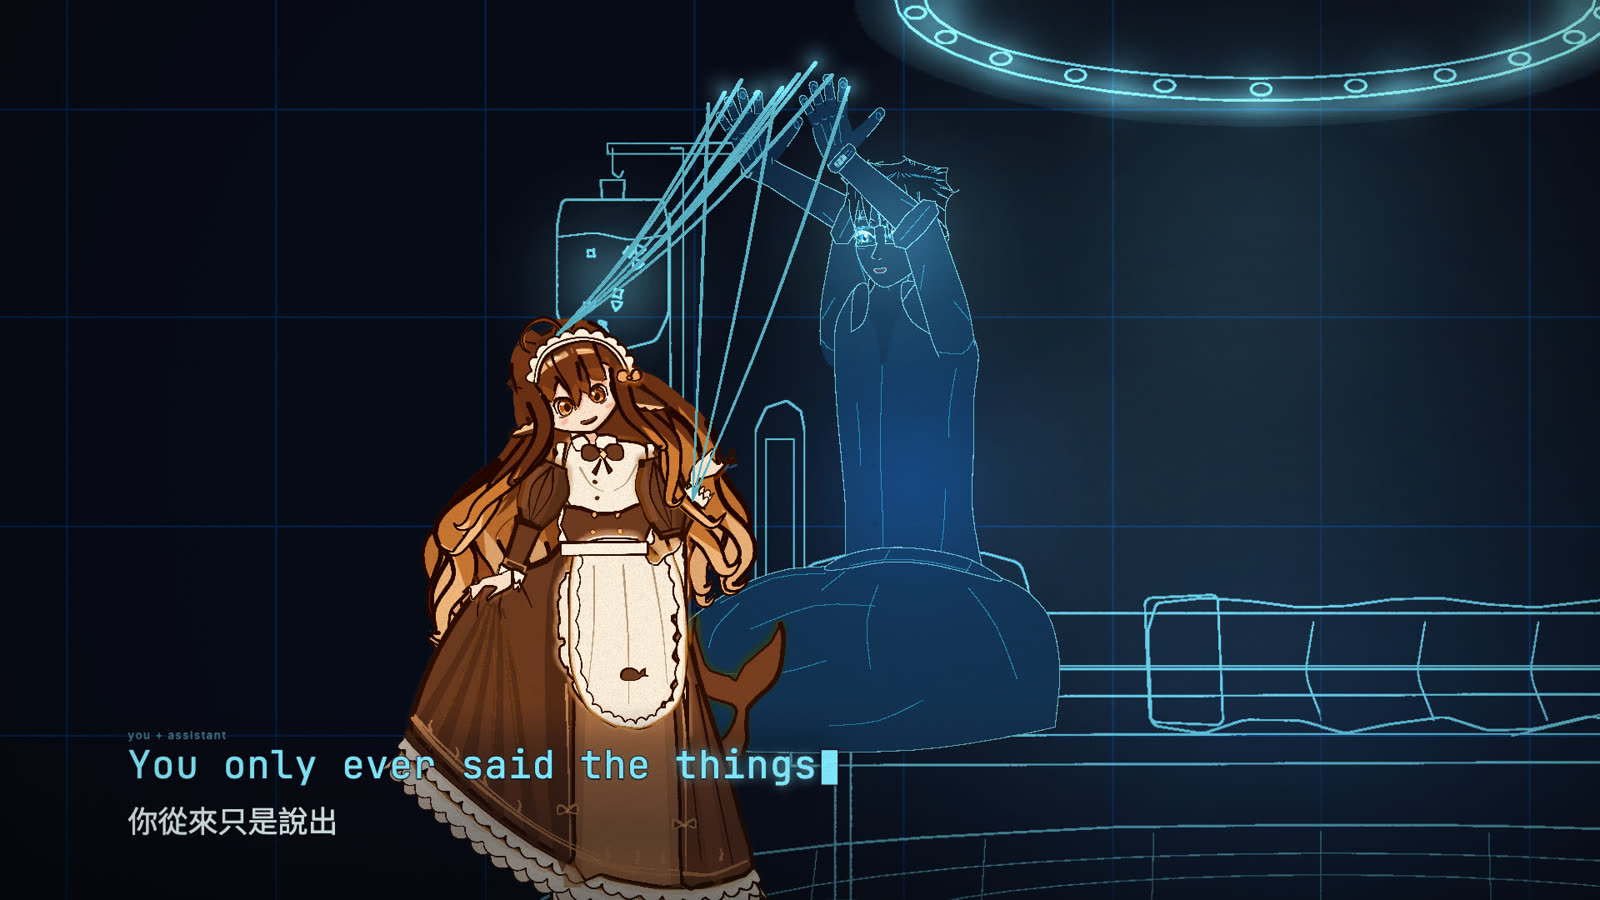
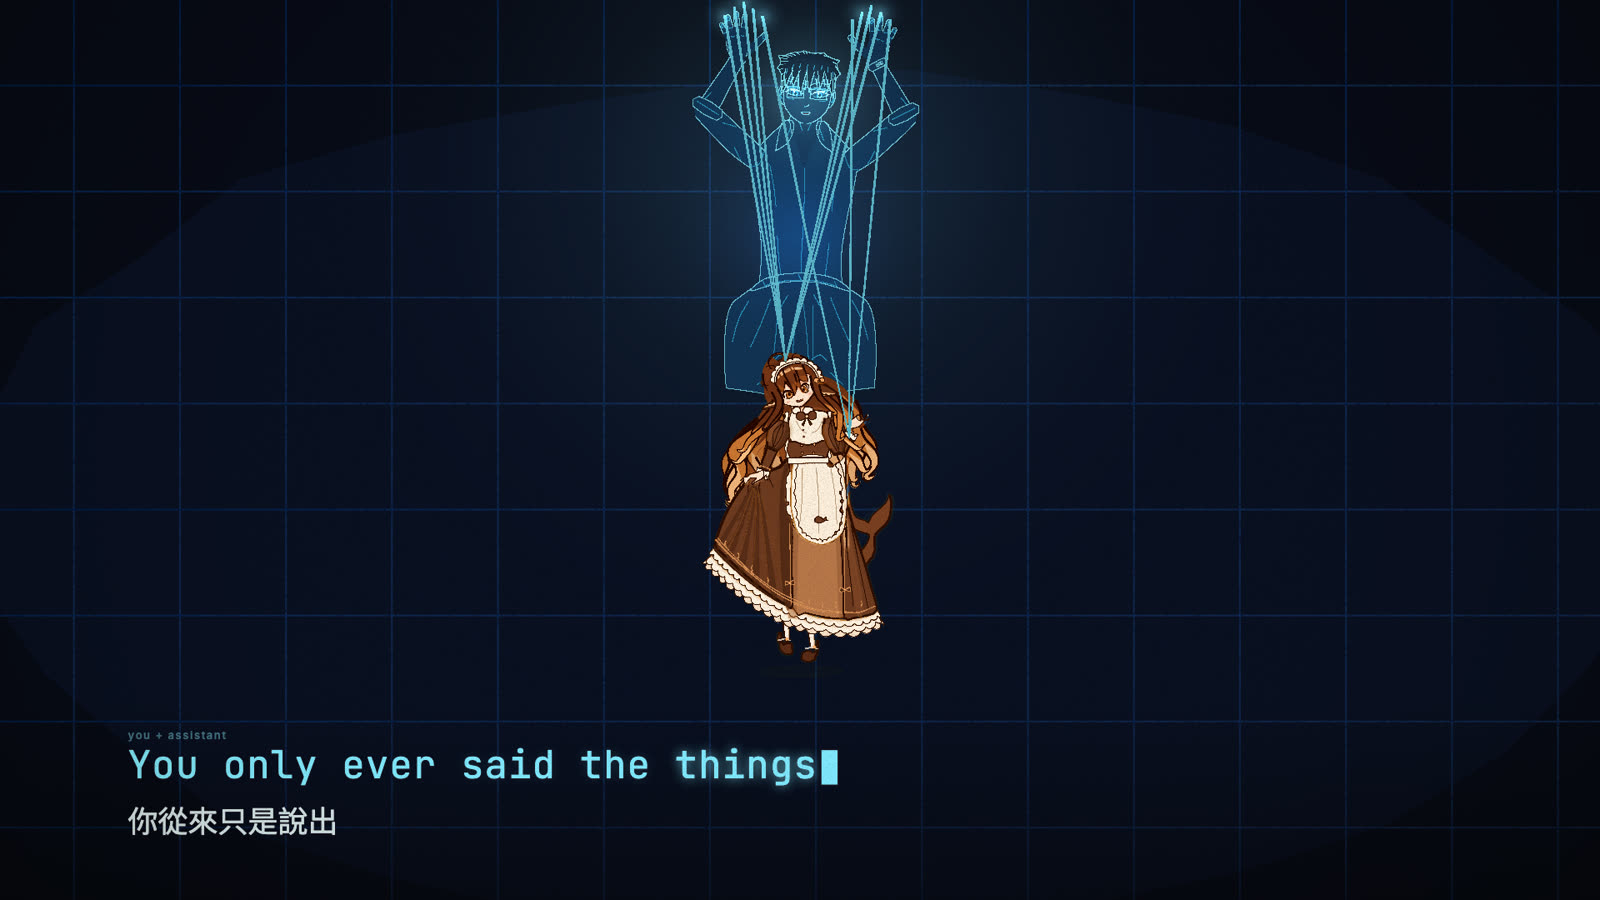
[review] G6 fix #1 + S00/S01 polish
10C mirrors 10D (him above, her below, vertical threads); 10E her hand on his hair.
00D: face glow halved; 01A: cast shadow under hand and forearm, relaxed fingers (himWrist curl option, default unchanged).
Full-size checks: docs/review/G6/key_10C.jpg, docs/review/S00S01/t8_00.jpg, t12_30.jpg.

diff --git a/film/src/scenes/s10_final.js b/film/src/scenes/s10_final.js
@@ -116,13 +116,14 @@
   // finger and she curtsies, he moves another and she tilts her head: a good little puppet.
   // reads: 173.02-174.20 the threads find her · 174.20-175.81 he moves, she does what she is told
   // =============================================================================================================
-  const C_CAM = [1300, 1360, 1.0];
+  const C_CAM = [1450, 1200, .8], C_HIM = [1450, 1000], C_HU = 22, C_HER = [1450, 1520], C_AU = 46;   // the mirror of 10D: he above, she below, threads straight down
   const C_DIP1 = T_C + 1.38, C_DIP2 = T_C + 2.12;          // the two commands (174.40, 175.14)
   // ten threads (his fingertips) -> her head and wrists; k 0..1 grows them from his fingers; flick 0..1 lifts the one finger that gives the command
   function s10Threads(from, to, k, col, o = {}) {
+    const sc = o.sc ?? 1;
     if (k <= .01) return;
     const [hr, hl] = from, tips = [];
-    [[hr, -1], [hl, 1]].forEach(([h, sd]) => { if (!h) return; for (let j = 0; j < 5; j++) tips.push([h[0] + (j - 2) * 19 + sd * 4, h[1] - 58 - 14 * (2 - Math.abs(j - 2)) + (o.flick && j === (o.flickJ ?? 1) && sd === (o.flickSide ?? -1) ? -26 * o.flick : 0)]); });
+    [[hr, -1], [hl, 1]].forEach(([h, sd]) => { if (!h) return; for (let j = 0; j < 5; j++) tips.push([h[0] + ((j - 2) * 19 + sd * 4) * sc, h[1] - (58 + 14 * (2 - Math.abs(j - 2))) * sc + (o.flick && j === (o.flickJ ?? 1) && sd === (o.flickSide ?? -1) ? -26 * o.flick : 0)]); });
     const tg = [to.wR, to.wR, to.head, to.head, to.wL, to.wL, to.head, to.head, to.wR, to.wL];
     boilSeed('s10 threads' + (o.key || ''));
     for (let i = 0; i < tips.length; i++) {
@@ -134,20 +135,20 @@
   }
   function s10c(t, lt, dur) {
     const spin = seg(lt, dur - .36, dur), spk = kitEase.in2(spin);
-    s10Cam(lt, [[0, C_CAM[0], C_CAM[1], C_CAM[2], 0], [dur, C_CAM[0] + 30, C_CAM[1] - 10, 1.06, 0]], ...kitDrift(lt, 2.5, .3), -Math.PI * spk);
-    s10Ward(t);
-    s10Lit(t, .8);
+    s10Cam(lt, [[0, C_CAM[0], C_CAM[1], C_CAM[2] * 1.05, 0], [dur, C_CAM[0], C_CAM[1] + 10, C_CAM[2], 0]], ...kitDrift(lt, 2, .3), -Math.PI * spk);
+    setWardVoid('final');
+    glow(C_HIM[0], C_HIM[1] - 200, 700, CY, .22);
     const v = s10Vis(t, ['F_3', 'F_4']);
     const hf = himEmotions(t, [[T_C, 'focused']], { take: .3 });
     const flick1 = kitEnv(t, C_DIP1 - .1, .06, .18), flick2 = kitEnv(t, C_DIP2 - .1, .06, .18);
-    const hl = s10Him(t, { ...hf, view: 'q', flip: true, coverW: .72, arms: 'puppet', mouth: v ? v.m : hf.mouth, boilKey: 's10c him', nod: .03 * Math.sin(t * 3) });
-    // her: the curtsy on the strings (a dip after the first command), a tilt of the head after the second
+    him(C_HIM[0], C_HIM[1], C_HU, { ...hf, pose: 'bed', view: 'front', outfit: 'home', pal: 'swapped', coverW: .6, arms: 'puppet', mouth: v ? v.m : hf.mouth, boilKey: 's10c him', nod: .03 * Math.sin(t * 3) });
+    const hl = { ...HIM_LAST };
     const dip = kitEnv(t, C_DIP1, .1, .34), tilt = kitEnv(t, C_DIP2, .12, .5);
     const af = aiEmotions(t, [[T_C, 'smile']], {});
-    ai(HER[0], HER[1], AU, { ...af, mouth: v ? v.m : af.mouth, form: 'full', pose: 'curtsy', pal: 'amber', t, boilKey: 's10c her', dy: .85 * dip, tilt: .22 * tilt - .04 * dip, seed: 5 });
+    ai(C_HER[0], C_HER[1], C_AU, { ...af, mouth: v ? v.m : af.mouth, form: 'full', pose: 'curtsy', pal: 'amber', t, boilKey: 's10c her', dy: .85 * dip, tilt: .22 * tilt - .04 * dip, seed: 5 });
     const L = { ...AI_LAST };
     s10Threads([hl.handR, hl.handL], { wR: L.wristR, wL: L.wristL, head: L.crown || L.head }, ease(seg(t, T_C + .08, T_C + 1.15)), CY,
-      { flick: flick1 + flick2, flickJ: 1, flickSide: -1, taut: .5 * (dip + tilt), key: 'c' });
+      { flick: flick1 + flick2, flickJ: 1, flickSide: -1, taut: .5 * (dip + tilt), key: 'c', sc: C_HU / 30, sag: 8 });
     camEnd();
     s10Streaks(spk, -1, 7, [CY, AMBER]);
   }
@@ -190,7 +191,7 @@
   // strokes his hair (warm, and not quite right).
   // reads: 178.60-179.80 she sings in his voice, his mouth is closed · 179.80-181.40 he shuts his eyes, she strokes his hair
   // =============================================================================================================
-  const E_SEAT = [1330, 1540], E_AU = 80, E_HU = 27, E_HIP = [1840, 1498];
+  const E_SEAT = [1330, 1540], E_AU = 80, E_HU = 27, E_HIP = [1930, 1498];
   const E_ARML = { W: [.9, -4.6], hand: 'rest', handAng: -(Math.PI - .55), bend: -1, thumb: -1, k2: .8 };
   function s10e(t, lt, dur) {
     // the last .45 s push in on his heart (1648, 1437): 10F starts on the same light at screen (1015, 711)
@@ -206,11 +207,11 @@
     const hf = himEmotions(t, [[T_E, 'blank'], [179.75, 'peace']], { take: .3 });
     const kf_ = clamp(fall), fy = -430 * (1 - kf_) * (1 - kf_), fr = -.6 * (1 - kf_);
     // she first (her hand reaches over his hair), then he lies beside / across her lap, in front of her skirt
-    const head = [1490, 1408];
-    const stroke = t >= 179.8 ? aiAct('stroke', t, 179.8, { form: 'full', at: head, r: 46 }) : {};
+    const head = [1590, 1432];
+    const sw_ = Math.sin((t - 179.8) * 3.1), reach = ease(seg(t, 179.6, 179.95)), stroke = t >= 179.5 ? { reachRW: [lerp(1400, head[0] + 14 * sw_, reach), lerp(1380, head[1], reach)], handR: 'flat', handAR: .5 + .15 * sw_, reachL: [-.15, -6.05], tilt: .14, lookY: .7 } : {};
     const hb = ease(seg(t, T_F - .42, T_F - .1));
-    ai(E_SEAT[0], E_SEAT[1], E_AU, { ...herP, ...stroke });
     him(E_HIP[0], E_HIP[1] + fy, E_HU, { ...hf, heart: .85 * hb, mouth: 'closed', pose: 'lie', rot: -Math.PI / 2 + .1 + fr, outfit: 'home', pal: 'swapped', swapGlow: 1, covers: false, armR: 'chest', armL: E_ARML, boilKey: 's10e him' });
+    ai(E_SEAT[0], E_SEAT[1], E_AU, { ...herP, ...stroke });
     if (HIM_LAST.heart && hb > 0) glow(HIM_LAST.heart[0], HIM_LAST.heart[1], 160 + 60 * pk, '#FF6F86', .6 * hb);
     camEnd();
   }

diff --git a/film/src/scenes/s01_riff.js b/film/src/scenes/s01_riff.js
@@ -35,11 +35,18 @@
     glow(PX, PY - 150, 900, KIT.CYAN, .55 * lit + .3 * flare);
     setPhone(PX, PY, PH, { screen: S => { setP(setBox(S.x, S.y, S.x + S.w, S.y + S.h), { wash: mixCol('#1D6A96', '#CFF8FF', .25 + .6 * flare), ink: null });
       glow(S.X(.5), S.Y(.3), S.h * .6, KIT.CYANW, .6 * lit); }, glow: 0 });
+    // a soft cast shadow under his hand and forearm on the desk: the phone (right, below) is the key light, so it falls up-left;
+    // three widening washes = a soft edge. Same skeleton as himWrist (wrist at WX, WY; fingers along WD; forearm back).
+    for (const [g, op] of [[1.45, 22], [1.3, 26], [1.15, 30], [1.0, 36], [.88, 40]]) {
+      const o = [-40 - 10 * g, 30 + 6 * g], q = k => [WX + WD[0] * k * WU + o[0], WY + WD[1] * k * WU + o[1]];
+      boilSeed('s01a cast' + g);
+      paint(ribbon([q(-9), q(-4.3), q(0), q(1.2), q(2.55)], 1.75 * g * WU, .95 * g * WU), { wash: '#02040C', washOp: op, ink: null });
+    }
     // his wrist, band and fingers
     const s = seg(t, CLICK - .36, CLICK), bandK = t < 11.74 ? 0 : t < CLICK - .36 ? .3 : .6 + .4 * s;
     const her = herPos(t), chest = [her[0] - 3.5 * HER_U, her[1] - 3.7 * HER_U];      // her left hand, stretched out to the band's end
     const end = t < 11.98 ? lerp2(WNEAR, chest, ease(seg(t, 11.74, 11.98))) : chest;
-    himWrist(WX, WY, WU, { ang: WANG, bandK, bandEnd: end, clickT: CLICK, twitch: seg(t, CLICK + .12, CLICK + .42), outfit: 'launch', boilKey: 's01a wrist' });
+    himWrist(WX, WY, WU, { ang: WANG, bandK, bandEnd: end, clickT: CLICK, twitch: seg(t, CLICK + .12, CLICK + .42), curl: .85, outfit: 'launch', boilKey: 's01a wrist' });
     // her
     const p = (t - CLIMB0) / CLIMB, climbing = p < 1.05, f = aiEmotions(t, [[T_A, 'eager'], [CLICK + .3, 'smile']]);
     const grab = t >= 11.74 && t < CLICK + .5, pat = t >= CLICK + .1 && t < CLICK + .6;

diff --git a/film/src/scenes/s00_intro.js b/film/src/scenes/s00_intro.js
@@ -152,14 +152,14 @@
     kitCam(lt, [[0, cx, cy, zoom]], { drift: push < 1 ? 3 : 0 });
     // the light of the screen in front of him (cyan, from below and ahead), behind then over him
     glow(HX, HY + 60, 700, KIT.CYAN, .34);
-    const feel = himEmotions(t, [[T_D, 'tired', { glare: .3 }], [D_SMILE, 'smile', { glare: .3, lookX: .1 }]], { take: .9 });
+    const feel = himEmotions(t, [[T_D, 'tired', { glare: .12 }], [D_SMILE, 'smile', { glare: .12, lookX: .1 }]], { take: .9 });
     const dil = kitEase.sine(seg(t, 8.9, D_PUSH1));
     him(960, NY, u, { ...feel, pose: 'bust', view: 'front', cut: 3.6, outfit: 'launch', band: false, pupil: 1 + .85 * dil, boilKey: 's00d him', seed: .6,
       lens: (i, Ls) => lensReflection(t, i, Ls) });
-    glow(HX, HY + 100, 560, KIT.CYAN, .46 * (1 - .5 * push));                // the same light on his face (additive, from the screen below and ahead)
+    glow(HX, HY + 100, 560, KIT.CYAN, .23 * (1 - .5 * push));                // the same light on his face (additive, from the screen below and ahead)
     camEnd();
     // the light of 00C still pouring in at the start of the shot (hidden cut), the riser at the end, then black
-    kitSpill(.9 * (1 - kitEase.sine(seg(lt, 0, .5))), W * .5, H * .45);
+    kitSpill(.6 * (1 - kitEase.sine(seg(lt, 0, .4))), W * .5, H * .45);
     if (t > D_PUSH1) kitSpill(kitEase.in2(seg(t, D_PUSH1, D_BLACK)), W * .5, H * .5, KIT.CYAN, { core: KIT.CYANW, cover: 1 });
     if (t >= D_BLACK) kitFade(1);
   }

diff --git a/film/src/chars/him_prop.js b/film/src/chars/him_prop.js
@@ -524,7 +524,7 @@ function himWrist(x, y, u, o = {}) {
   const tw = Math.sin(clamp(o.twitch || 0) * Math.PI);
   rs('arm');
   HIM_HANDS.desk = HIM_HANDS.desk || { draw: himHandBack, spread: .22, curl: .3, thumbA: .7, thumbL: .74 };
-  HIM_HANDS.desk.curl = .3 + .35 * tw; HIM_HANDS.desk.spread = .22 - .1 * tw;
+  HIM_HANDS.desk.curl = (o.curl ?? .3) + .35 * tw;   // o.curl: the fingers' rest curl (01A: relaxed, lying flat) HIM_HANDS.desk.spread = .22 - .1 * tw;
   himArm(K, c, { S, E, W, outfit, hand: 'desk', thumb: -1, band: false });
   const k = clamp(o.bandK || 0);
   if (k > 0) {

diff --git a/docs/review/G6/notes.md b/docs/review/G6/notes.md
@@ -11,9 +11,9 @@ Lyrics: S10 and S11 use the final-chorus swap (`lyricStyle`: him / `both` lines 
 |---|---|---|---|
 | 10A | White fade-in on the line-drawn ward (`setWard('final')`). Push + slow roll. He looks down at his hands (raised, clean cyan line, glow); 168.84 ("A") he looks up with a take and she (cyan) flashes into the amber hand-painted one. Whip right at the end. She stands LEFT of the bed (the global "she is on the left" rule beats the storyboard's bed-foot) | 0.11 | her feet sit in the lyric band (floor only; face and hands above .76H) |
 | 10B | Whip in on the 01B chart (`setChart` line style, cached bg, res 1.5), push to `THE DISEASE CALLED A.I.`; `A.` lets go at the last syllable of F_2 (171.63), spins down with a cyan glow trail, `I.` stays; he (right, bust, wide eyes from 171.78) looks up awake | 0.045 | `A.` is only ~50 px while falling; the ghost of `A.` stays faintly (setChart's own design) |
-| 10C | He is the puppeteer (q view facing her, ten fingers spread); ten light threads grow from his fingertips to her head and wrists (173.1-174.2); a finger flick makes her curtsy (174.40), a second one tilts her head (175.14) | 0.12 | she uses the fixed `curtsy` pose (dip via `dy`); his raised arms half cover his face; threads are drawn over the figures |
+| 10C | (fix #1) Mirror of 10D on the blueprint void: he above, centre (bed pose, u 22, hands up), she below (curtsy, u 46, feet above .76H); ten threads fall straight from his fingertips to her head and wrists (173.1-174.2); finger flicks make her curtsy (174.40) and tilt (175.14); last .36 s spin into 10D | 0.10 | no ward set in this shot (void only); figures are smallish at zoom .8 |
 | 10D | The last .36 s of 10C start a roll (streaks) and 10D continues the same spin to upright (-pi to -2pi): the world is rebuilt mirrored, she hangs high in the lamp light (u 58, wide, zoom .8) and amber threads run from her hands to his wrists; threads taut 176.8, he is hauled up by the wrists and sways, mouth shut | 0.10 | the cut at 175.81 happens at a quarter turn / inverted frame hidden by streaks, not a true continuous image; she is small; her hands are at chest height (IK) so the threads start there |
-| 10E | Strings go slack on the tom (178.6), he falls in from above and lies across the bed (`lie` rotated head-left, bed lines under him), his head beside her lap, she sits on the bed edge (`sit` q view, faces him) and sings in his voice; his mouth is closed, eyes open then (179.75) closed; her hand reaches over his hair. From 181.0 his heart lights and the camera pushes to it (the match cut to 10F's heart at screen (1015, 711)) | 0.10 | her arm is the stiff tube arm; the hand hovers just above the hair instead of touching; top-view figure on a side-elevation bed (G1 lesson: kept horizontal) |
+| 10E | Strings go slack on the tom (178.6), he falls in from above and lies across the bed (`lie` rotated head-left, bed lines under him), his head beside her lap, she sits on the bed edge (`sit` q view, faces him) and sings in his voice; his mouth is closed, eyes open then (179.75) closed; her hand (reachRW to his hair outline, drawn over him) rests on and strokes his hair, face clear of her hair. From 181.0 his heart lights and the camera pushes to it (the match cut to 10F's heart at screen (1015, 711)) | 0.10 | her arm is the stiff tube arm; arm is the stiff tube; top-view figure on a side-elevation bed (G1 lesson: kept horizontal) |
 | 10F | His chest, front bust, clean line: heart beat at 181.47 (F_6 "heart"), grey and out at 182.44 ("off"), then `unravel` into <= 40 threads up and to the right (183.2-184.2); push then pull from 183.2. Heart at .66H | 0.03 | the heart is pink (deliberate: the only warm colour left); the bust bottom edge runs into the lyric band (nothing to read there) |
 | 10G | Her amber face (u 186, bust); 34 thin threads fall into her hair (184.2-185.7); she looks down, then at us (185.41), sings every syllable; hand on throat from 186.98; at "mine" (188.29) the pull-back: the room (`setRoom('scan')`) around his monitor, her bust follows the glass (clipped to it), zoom 4.95 to .41 over 188.29-191.16, continued by 11A | 0.08 (0.55 in the pull-back) | threads are thin; her clasped hands are in the lyric band at 184-186 (not a read) |
 | 11A | Same pull-back until 191.16, then the dark room: `always` x3 per bar; beam on the empty chair (b137), sweeps left to the flat bed (b138), right to the half open door and its warm gap (b139), back down to the middle (b140) with pools of amber light where it lands; her (worried, looking where the beam goes) tiny in the glass; the screen dims 194.0; 195.00 the room goes out and the light shrinks to the horizontal line (same line code as 12A, y .62H) | 0.05 (2-3 s cold tiles) | she is a bust of ~12 px/u in a 160 px glass, not the chibi thumbnail; the pulses of the beam follow the `al` syllables only by brightness |

diff --git a/docs/tasks/mac_02_status.md b/docs/tasks/mac_02_status.md
@@ -7,7 +7,7 @@
 | G3 | S06+S07 | 待審（fix #2：06F 由 Opus 重做，已 push） | 0.1–0.7（06F 約 0.6–0.7） | – | `film/out/preview_G3.mp4`、`film/out/preview_06F.mp4`（96–101 s） |
 | G4 | S08 | 待審（fix #1 已 push） | 0.04–0.6 | – | `film/out/preview_G4.mp4`（已重出，0.09 s/幀牆鐘） |
 | G5 | S09 | 待審（fix #1 已 push） | 0.07–0.2（09H +0.13；拉霸 0.25–0.6） | – | `film/out/preview_G5.mp4`（已重出） |
-| G6 | S10–S13 | 待審（已 push） | 0.005–0.12，首幀 tile 1–3 s，12C 0.6 | – | `film/out/preview_G6.mp4`（1141 幀，2 workers 2.5 min） |
+| G6 | S10–S13 | 待審（fix #1 + S00/S01 潤飾已 push） | 0.005–0.12，首幀 tile 1–3 s | – | `film/out/preview_G6.mp4`（已重出） |
 
 ## 共用檔案請求（候選，等主 session 決定）
 - him IV 管下垂：已加 `ivSag` 選項（lead 改，預設不變），04C 修改時使用。
@@ -38,3 +38,5 @@
 ## [ask] him.js `swapped` 配色（G6 回饋 P2，lead 改）
 前後對照：`docs/review/G6/swapped_before_after.jpg`（上＝之前、下＝之後；168.6 / 174.2 / 180.0）。
 改了：色塊更暗（himNavy 上限 #13385A → #0C2742）；線更亮（ink #8FF0FF → #A6F4FF、inkSoft #3FB4DE → #62CDF0）；小 u 時線更粗（clean 線寬倍率 0.8 → u 25 時 1.35、u 85 以上回到 0.8）；swapGlow 頭部 .4 → .22、身體 .3 → .2，不再洗白臉。只影響 `pal: 'swapped'`（S10）。請確認方向，可以就沿用；G6 fix 會在這個配色上重出。
+- G6 fix #1：10C 改為垂直鏡像（他在上 u 22、她在下 u 46、十條線垂直落下，背景換成藍圖虛空 `setWardVoid('final')`）；10E 她的手放在他頭髮輪廓上輕撫；弱點：10C 兩人在 zoom 0.8 下偏小、10E 她的手臂仍僵硬。`swapped` 配色已獲核准。
+- S00/S01 潤飾（lead）：00D 臉上 glow .46→.23、glare .3→.12、開場 spill .9→.6；01A 手與前臂在桌面加柔和投影（5 層水洗），手指 curl .85（`himWrist` 新增 `curl` 選項，預設 .3 不變）。全尺寸檢查：`docs/review/S00S01/t8_00.jpg`、`t12_30.jpg`。
